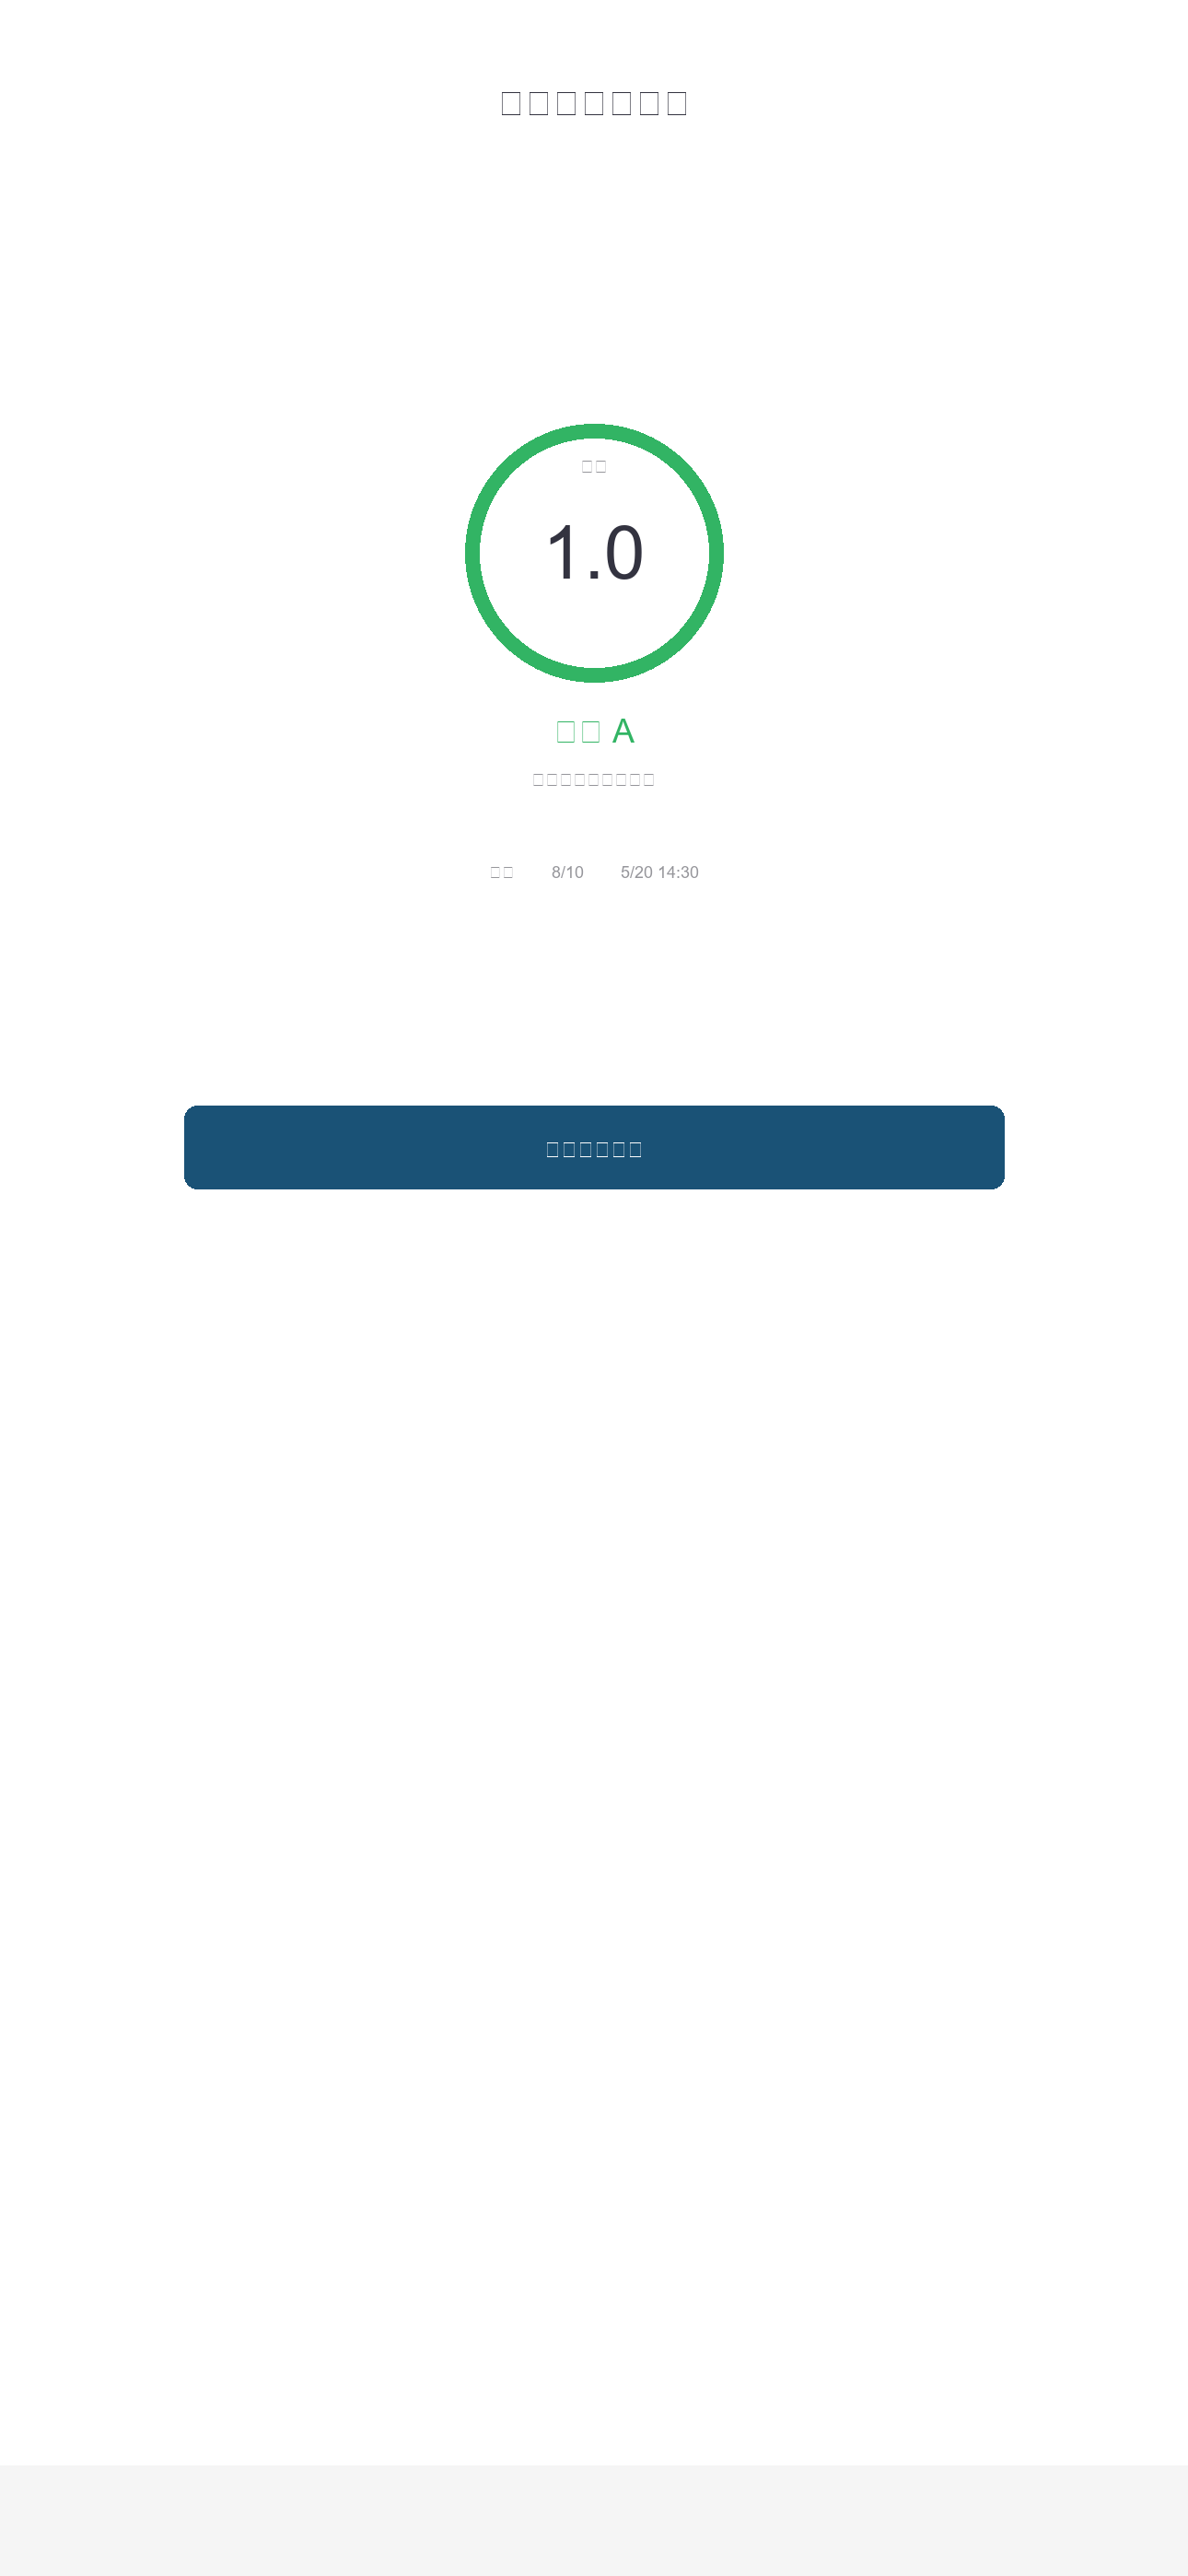
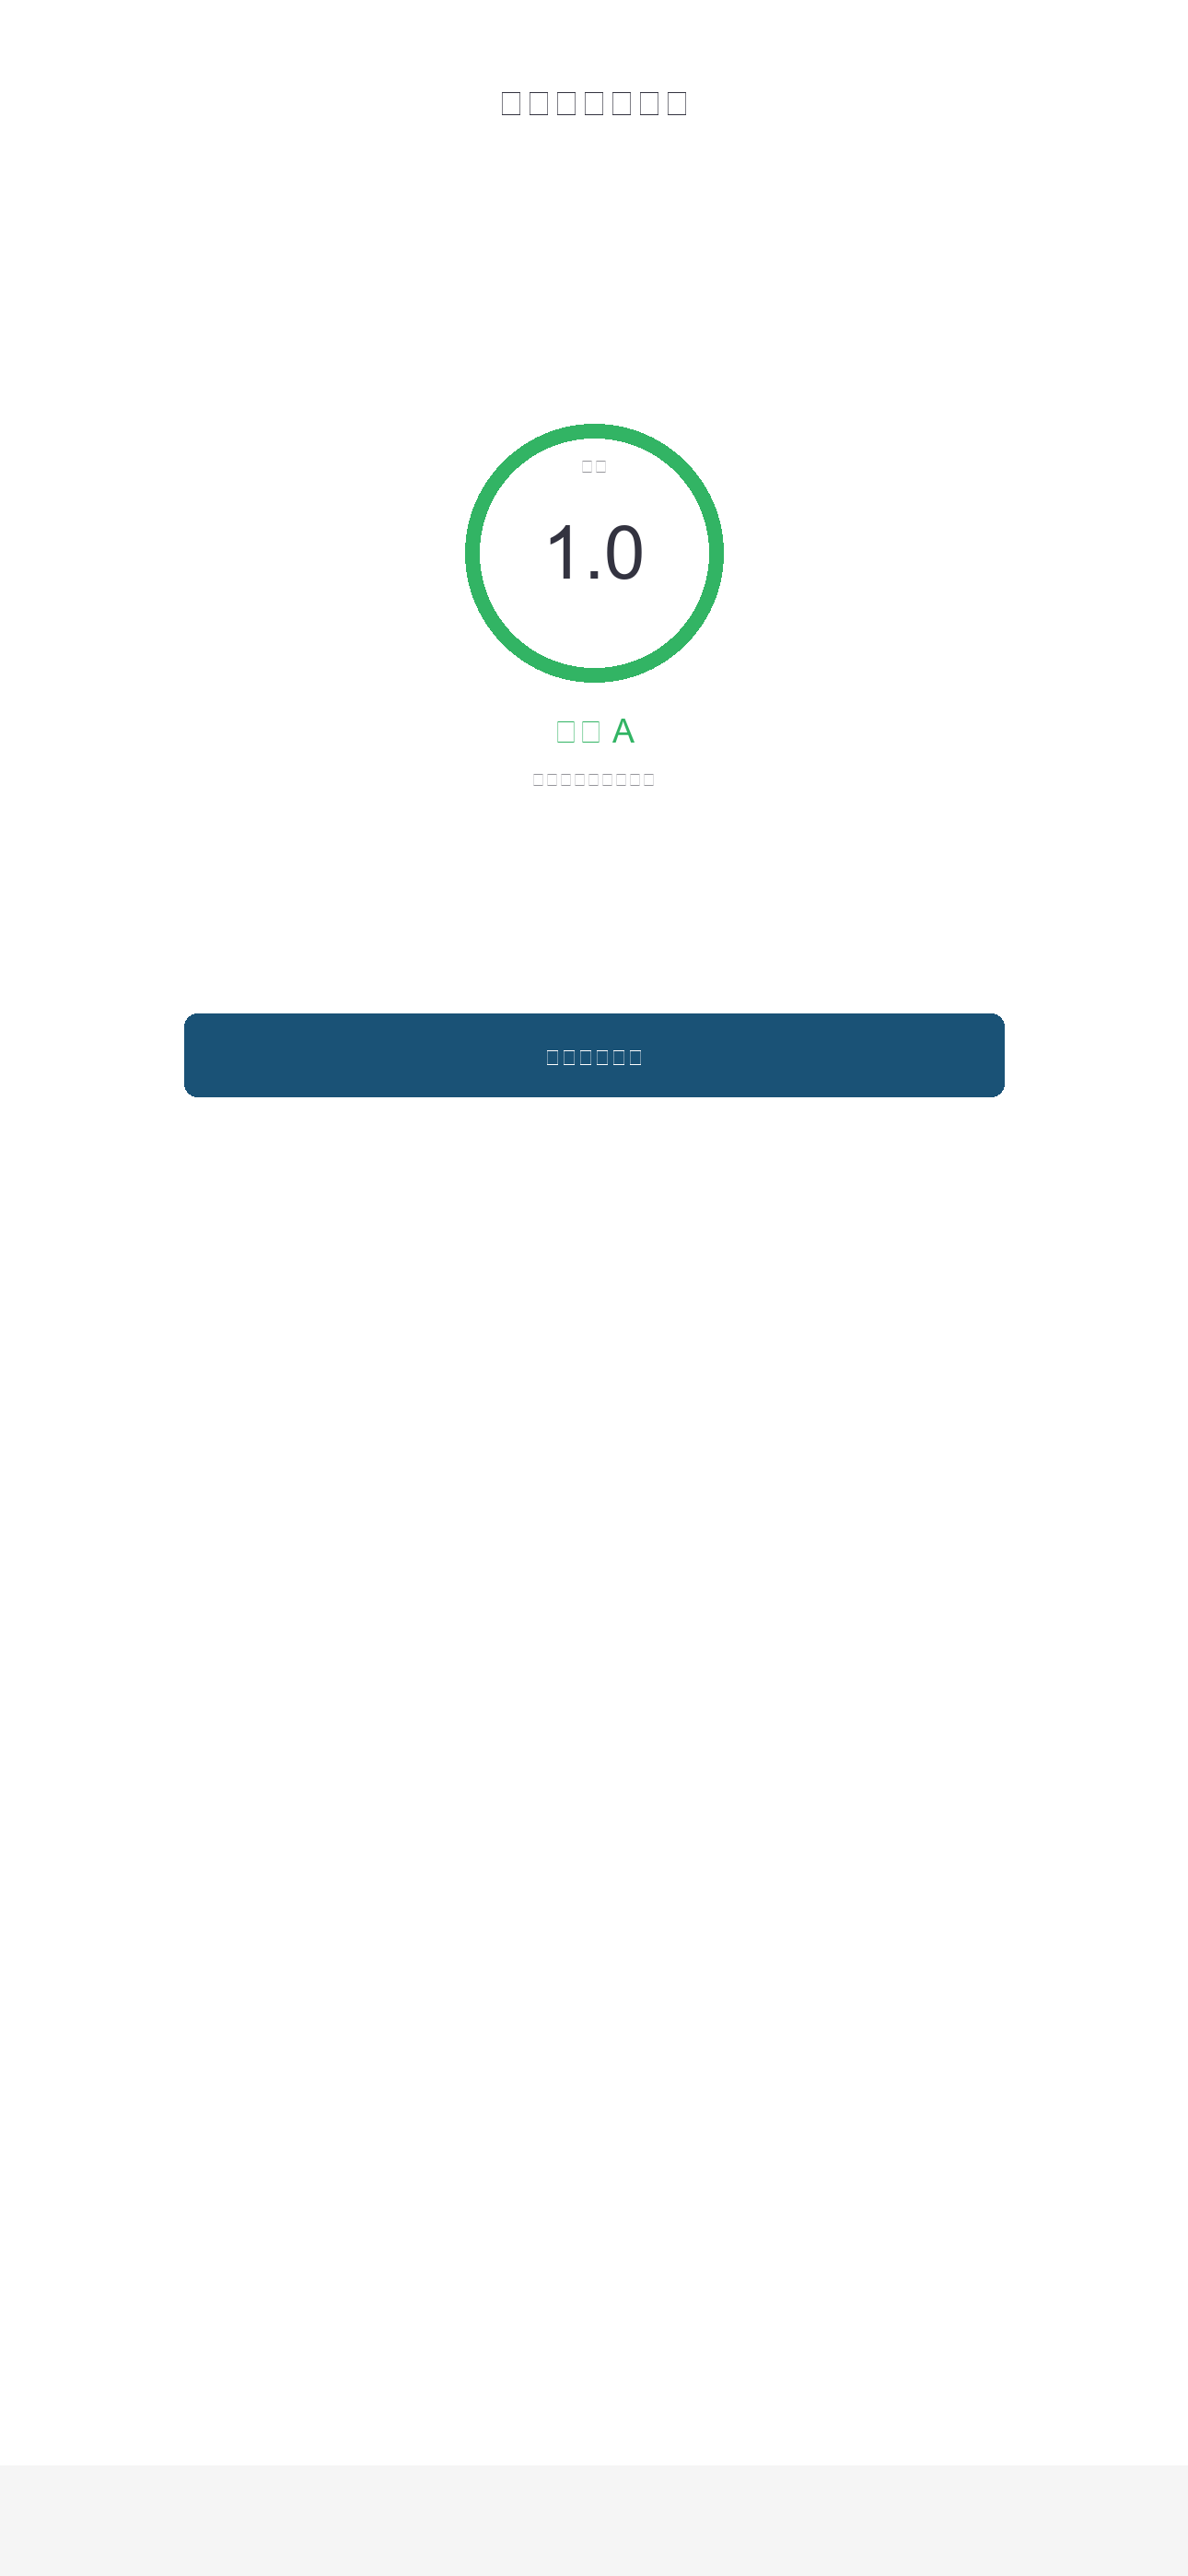
Remove AdMob SDK (iPad crash fix), fix CI signing
- Remove GoogleMobileAds SPM dependency from pbxproj
- Stub AdMobManager and BannerAdView with EmptyView
- Remove ad banner views from ContentView, ResultView, VisionTestView
- Remove adMob.configure() from app entry point
- Remove Resolve packages CI step (no more SPM deps)
- Change export destination from upload to export
- Add separate Upload IPA step with xcrun altool

Changed region(s): [[0.155, 0.3734, 0.8682, 0.4667]]

diff --git a/ShiryokuCheck/Helpers/AdMobManager.swift b/ShiryokuCheck/Helpers/AdMobManager.swift
@@ -1,23 +1,14 @@
 import SwiftUI
-import GoogleMobileAds
 
 class AdMobManager: ObservableObject {
     static let shared = AdMobManager()
-    let bannerAdUnitID = "ca-app-pub-3940256099942544/2934735716" // Test ID
-    func configure() { GADMobileAds.sharedInstance().start(completionHandler: nil) }
+    let bannerAdUnitID = ""
+    func configure() {}
 }
 
-struct BannerAdView: UIViewRepresentable {
+struct BannerAdView: View {
     let adUnitID: String
-    func makeUIView(context: Context) -> GADBannerView {
-        let banner = GADBannerView(adSize: GADAdSizeBanner)
-        banner.adUnitID = adUnitID
-        if let windowScene = UIApplication.shared.connectedScenes.first as? UIWindowScene,
-           let rootVC = windowScene.windows.first?.rootViewController {
-            banner.rootViewController = rootVC
-        }
-        banner.load(GADRequest())
-        return banner
+    var body: some View {
+        EmptyView()
     }
-    func updateUIView(_ uiView: GADBannerView, context: Context) {}
 }

diff --git a/ShiryokuCheck/Views/VisionTestView.swift b/ShiryokuCheck/Views/VisionTestView.swift
@@ -86,9 +86,7 @@ struct VisionTestView: View {
                 directionButtons
                     .padding(.bottom, 8)
 
-                // Ad
-                BannerAdView(adUnitID: AdMobManager.shared.bannerAdUnitID)
-                    .frame(height: 50)
+                Spacer().frame(height: 50)
             }
 
             // Feedback overlay

diff --git a/ShiryokuCheck/ContentView.swift b/ShiryokuCheck/ContentView.swift
@@ -93,8 +93,7 @@ struct ContentView: View {
 
                 Spacer()
 
-                BannerAdView(adUnitID: AdMobManager.shared.bannerAdUnitID)
-                    .frame(height: 50)
+                Spacer().frame(height: 50)
             }
         }
         .sheet(isPresented: $showHistory) {

diff --git a/ShiryokuCheck/ShiryokuCheckApp.swift b/ShiryokuCheck/ShiryokuCheckApp.swift
@@ -3,13 +3,10 @@ import SwiftUI
 @main
 struct ShiryokuCheckApp: App {
     @StateObject private var testManager = VisionTestManager()
-    @StateObject private var adMob = AdMobManager.shared
-
     var body: some Scene {
         WindowGroup {
             ContentView()
                 .environmentObject(testManager)
-                .onAppear { adMob.configure() }
         }
     }
 }

diff --git a/ShiryokuCheck/Views/ResultView.swift b/ShiryokuCheck/Views/ResultView.swift
@@ -77,8 +77,7 @@ struct ResultView: View {
                     .padding(.horizontal, 30)
                     .padding(.bottom, 8)
 
-                BannerAdView(adUnitID: AdMobManager.shared.bannerAdUnitID)
-                    .frame(height: 50)
+                Spacer().frame(height: 50)
             }
         }
     }